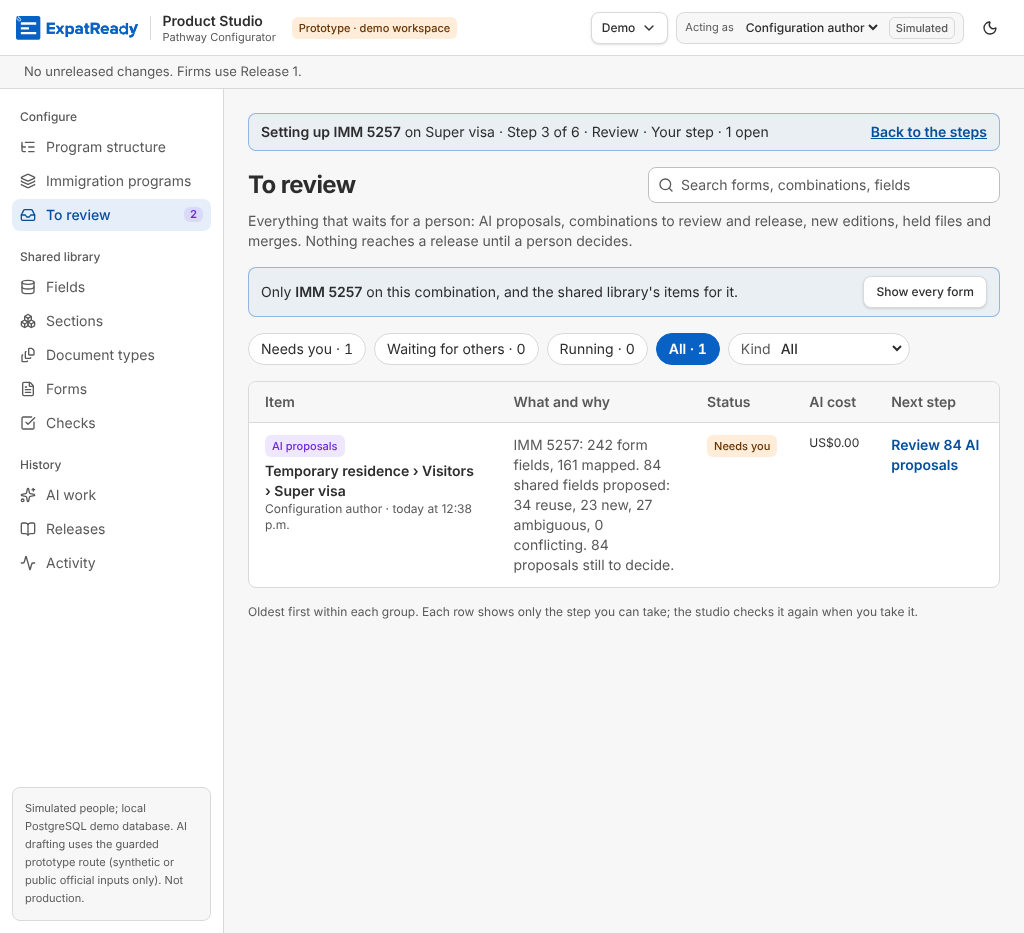
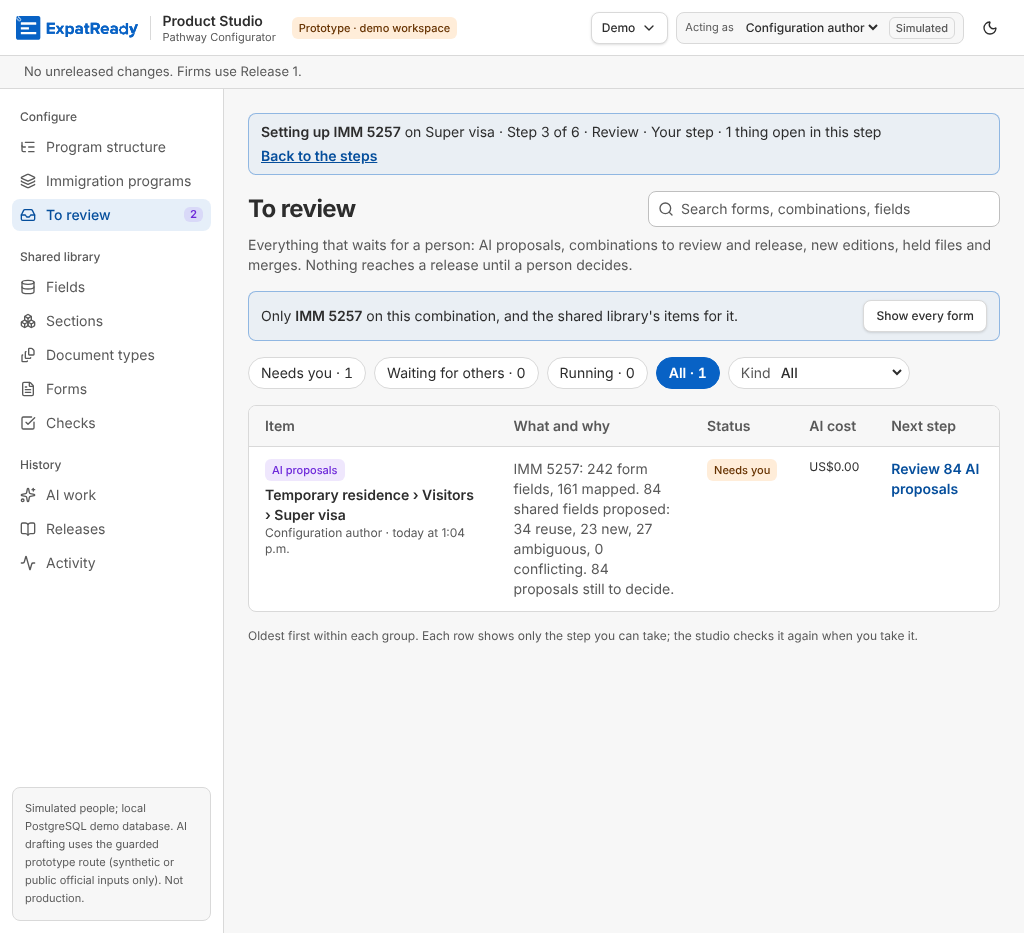
forms F2 C2.12: review 95014fdf Minors m1, m3–m7 with fail tests; P-221: the record moves to qa/built/C2.12.md (CAPABILITIES.md untouched)
m1 a row's step link keeps ?form=&c=; m3 a refused combination is named as such; m4 the strip says what it counts;
m5 focus to the heading after Show every form; m6 the combination never reaches an API path as written (encoded, shape
checked, label guarded); m7 the number shown as the library writes it. m2 (job.tsx, not this lane's file) listed in the PR.

Claude-Session: https://claude.ai/code/session_01Ln6TiU8EwrKpPayKMQCinc

Changed region(s): [[0.25, 0.1554, 0.9688, 0.6838], [0.8438, 0.3108, 0.9688, 0.373], [0.7188, 0.1243, 0.9688, 0.1554]]

diff --git a/ai-workers/problem-1-pathway-setup-and-form-filling/prototype/studio/web/src/pages/to-review.tsx b/ai-workers/problem-1-pathway-setup-and-form-filling/prototype/studio/web/src/pages/to-review.tsx
@@ -12,6 +12,8 @@ import { EmptyState } from "@/components/ui/empty-state";
 import { Skeleton } from "@/components/ui/skeleton";
 import { fmtWhen, Tip, TipProvider } from "@/components/status";
 import { cn } from "@/lib/utils";
+import { normaliseCode } from "../../../contracts/form-library";
+import { withReturn } from "@/pages/workspace/setup-rail";
 
 const VIEWS = [["needs", "Needs you"], ["waiting", "Waiting for others"], ["running", "Running"], ["all", "All"]] as const;
 const KIND_TONE: Record<QueueKind, string> = { proposals: "ai", ai_proposals: "ai", release: "info", library_change: "info", form_fields: "warn", new_edition: "warn", held_file: "warn", merge: "neutral", running: "ai" };
@@ -26,7 +28,12 @@ export function ToReviewPage() {
   const q = sp.get("q") ?? "";
   // C2.12 (concept m2, K1): opened from a form's guided path, the list is that form's items (?form=), on that combination
   // (?c=) as the path counts them; "Show every form" clears both. The API checks the number (400 in words).
-  const form = sp.get("form")?.trim() || null;
+  // Review m7: the number as the library writes it ("imm5257" → "IMM 5257"), as the strip and the API say it.
+  const asked = sp.get("form")?.trim() || null;
+  const form = asked ? (asked.length <= 40 ? normaliseCode(asked) : asked) : null;
+  const heading = React.useRef<HTMLHeadingElement>(null);
+  // Review m5 (WCAG 2.4.3): after "Show every form" the button is gone; focus goes to the page's heading, not the body.
+  const showEvery = () => { set({ form: null, c: null }); requestAnimationFrame(() => heading.current?.focus()); };
   const combo = form ? sp.get("c")?.trim() || null : null;
   const [typed, setTyped] = React.useState(q);
   React.useEffect(() => setTyped(q), [q]);
@@ -43,7 +50,7 @@ export function ToReviewPage() {
     <TipProvider>
       <div className="mx-auto flex max-w-[1240px] flex-col gap-4">
         <div className="flex flex-wrap items-center gap-3">
-          <h1 className="text-2xl font-bold tracking-tight">To review</h1>
+          <h1 ref={heading} tabIndex={-1} className="text-2xl font-bold tracking-tight outline-none">To review</h1>
           <span className="flex-1" />
           <div className="relative w-full sm:w-[22rem]">
             <Search className="pointer-events-none absolute left-2.5 top-2.5 size-4 text-text-muted" aria-hidden />
@@ -56,7 +63,7 @@ export function ToReviewPage() {
         {form ? <div className="flex flex-wrap items-center gap-2 rounded-lg border border-primary/40 bg-primary/5 px-3 py-2 text-sm" data-form-filter={form}>
           <span>Only <b className="font-semibold">{form.length > 40 ? `${form.slice(0, 40)}…` : form}</b>{combo ? " on this combination, and the shared library's items for it" : ", on every combination"}.</span>
           <span className="flex-1" />
-          <Button size="sm" variant="secondary" onClick={() => set({ form: null, c: null })}>Show every form</Button>
+          <Button size="sm" variant="secondary" onClick={showEvery}>Show every form</Button>
         </div> : null}
 
         <div className="flex flex-wrap items-center gap-2">
@@ -82,15 +89,16 @@ export function ToReviewPage() {
 
         {list.isError ? (form && list.error instanceof ApiError && list.error.status === 400
             // C2.12: a form number the studio refuses (too long, empty) is said in its words, with the way out, not "Try again".
-            ? <Notice tone="danger" title="This form number is not one the studio reads" action={<Button size="sm" variant="secondary" onClick={() => set({ form: null, c: null })}>Show every form</Button>}>{list.error.message}</Notice>
+            // Review m3: the title names what was refused (the combination reference or the form number).
+            ? <Notice tone="danger" title={list.error.field("combination") ? "This combination reference is not one the studio reads" : "This form number is not one the studio reads"} action={<Button size="sm" variant="secondary" onClick={showEvery}>Show every form</Button>}>{list.error.message}</Notice>
             : <Notice tone="danger" title="The list could not be loaded" action={<Button size="sm" variant="secondary" onClick={() => void list.refetch()}>Try again</Button>}>{(list.error as Error).message} Your decisions so far are saved.</Notice>)
           : list.isLoading || !known ? <div className="space-y-2 rounded-lg border border-border bg-surface-raised p-4" aria-busy="true" aria-label="Loading items to review">{Array.from({ length: 6 }, (_, i) => <Skeleton key={i} className="h-12 w-full" />)}<span className="sr-only" role="status">Loading items to review</span></div>
           : !d!.items.length ? (
-            form && !q && !kind ? <EmptyState title={`Nothing for ${form.length > 40 ? `${form.slice(0, 40)}…` : form} in ${VIEWS.find(([k]) => k === filter)![1]}`} description={`${filter !== "all" && d!.counts.all ? `${d!.counts.all} other item${d!.counts.all === 1 ? "" : "s"} of this form ${d!.counts.all === 1 ? "is" : "are"} under All. ` : ""}Items of other forms are not shown.`} action={<Button variant="secondary" onClick={() => set({ form: null, c: null })}>Show every form</Button>} />
+            form && !q && !kind ? <EmptyState title={`Nothing for ${form.length > 40 ? `${form.slice(0, 40)}…` : form} in ${VIEWS.find(([k]) => k === filter)![1]}`} description={`${filter !== "all" && d!.counts.all ? `${d!.counts.all} other item${d!.counts.all === 1 ? "" : "s"} of this form ${d!.counts.all === 1 ? "is" : "are"} under All. ` : ""}Items of other forms are not shown.`} action={<Button variant="secondary" onClick={showEvery}>Show every form</Button>} />
             : q || kind ? <EmptyState title="Nothing matches" description={`No item ${q ? `matches "${q}"` : ""}${q && kind ? " and " : ""}${kind ? `is a ${KIND_WORDS[kind].toLowerCase()}` : ""} in ${VIEWS.find(([k]) => k === filter)![1]}.`} action={<Button variant="secondary" onClick={() => { setTyped(""); set({ q: null, kind: null, f: "all" }); }}>Show all</Button>} />
               : filter === "needs" ? <EmptyState title="Nothing waits for you" description={`When you add sources to a combination, its AI draft, new editions and approvals appear here.${d!.counts.waiting ? ` ${d!.counts.waiting} item${d!.counts.waiting === 1 ? " waits" : "s wait"} for someone else.` : ""}`} action={<Button asChild variant="secondary"><Link to="/">Open Immigration programs</Link></Button>} />
               : <EmptyState title={filter === "running" ? "No AI work is running" : filter === "waiting" ? "Nothing waits for someone else" : "Nothing to review"} description="Items appear here as sources are added, drafted and submitted." />
-          ) : <Rows items={d!.items} />}
+          ) : <Rows items={d!.items} way={form && combo ? { form, combo } : null} />}
         {d?.items.length ? <p className="text-xs text-text-muted">Oldest first within each group. Each row shows only the step you can take; the studio checks it again when you take it.</p> : null}
         {d ? <p className="sr-only" role="status">{d.items.length} item{d.items.length === 1 ? "" : "s"} shown</p> : null}
       </div>
@@ -98,7 +106,7 @@ export function ToReviewPage() {
   );
 }
 
-function Rows({ items }: { items: QueueItem[] }) {
+function Rows({ items, way }: { items: QueueItem[]; way: { form: string; combo: string } | null }) {
   return (
     // QA-113: at 1024 px the box is about 735 px wide; a 760 px floor scrolled sideways and cut "Item". The columns wrap
     // down to 640 px, and only a narrower window scrolls.
@@ -118,7 +126,7 @@ function Rows({ items }: { items: QueueItem[] }) {
                 <td className="px-4 py-3"><Pill tone={tone}>{word}</Pill>{i.waiting_on ? <p className="mt-1 max-w-[220px] text-xs text-text-muted">{i.waiting_on}</p> : null}</td>
                 <td className="whitespace-nowrap px-4 py-3 text-xs">{i.cost_usd === null ? "—" : `US$${i.cost_usd.toFixed(2)}`}</td>
                 <td className="px-4 py-3" data-next>{!i.next ? <span className="text-xs text-text-muted">No step for you</span>
-                  : i.next.href ? <><Link className="rounded font-semibold text-text-link outline-none hover:underline focus-visible:ring-[3px] focus-visible:ring-ring/50" to={i.next.href}>{i.next.label}</Link>{i.next.note ? <p className="mt-1 max-w-[220px] text-xs text-text-muted">{i.next.note}</p> : null}</>
+                  : i.next.href ? <><Link className="rounded font-semibold text-text-link outline-none hover:underline focus-visible:ring-[3px] focus-visible:ring-ring/50" to={way ? withReturn(i.next.href, way.form, way.combo) : i.next.href}>{i.next.label}</Link>{i.next.note ? <p className="mt-1 max-w-[220px] text-xs text-text-muted">{i.next.note}</p> : null}</>
                   : <Tip tip={i.next.note ?? ""}><span tabIndex={0} className="cursor-help font-semibold text-text-muted outline-none focus-visible:ring-[3px] focus-visible:ring-ring/50">{i.next.label} <span className="text-xs font-normal">(not built yet)</span></span></Tip>}</td>
               </tr>
             );

diff --git a/ai-workers/problem-1-pathway-setup-and-form-filling/prototype/studio/web/src/components/return-strip.tsx b/ai-workers/problem-1-pathway-setup-and-form-filling/prototype/studio/web/src/components/return-strip.tsx
@@ -13,16 +13,18 @@ export function ReturnStrip() {
   const loc = useLocation();
   const form = sp.get("form")?.trim() || null, c = sp.get("c")?.trim() || null;
   // The rail itself is open (?setup=): the strip would repeat it.
-  const on = !!form && !!c && !sp.get("setup") && form.length <= 40 && c.length <= 64;
+  // Review m6: only a combination reference of the studio's shape (letters, digits, dashes) is read; the address never
+  // reaches the API path as written.
+  const on = !!form && !!c && !sp.get("setup") && form.length <= 40 && /^[A-Za-z0-9-]{1,64}$/.test(c);
   const p = useApi<FormProgress>(progressKey(c ?? "", form ?? ""), progressPath(c ?? "", form ?? ""), { enabled: on, retry: (n, e) => !(e instanceof ApiError && e.status < 500) && n < 1 });
-  const combo = useApi<CombinationView>(["combination", c ?? ""], `/combinations/${c}`, { enabled: on });
+  const combo = useApi<CombinationView>(["combination", c ?? ""], `/combinations/${encodeURIComponent(c ?? "")}`, { enabled: on });
   // A stale or foreign address (a form or combination the studio does not know): no strip; the page itself still works.
   if (!on || !p.data) return null;
   const chip = chipOf(p.data);
-  const name = combo.data?.combination.label ?? "this combination";
+  const name = combo.data?.combination?.label ?? "this combination";
   return (
     <div className="mb-4 flex flex-wrap items-center gap-x-3 gap-y-1 rounded-lg border border-primary/40 bg-primary/5 px-3 py-2 text-sm" role="region" aria-label={`Setting up ${p.data.form}`} data-return-strip={p.data.form} data-path={loc.pathname}>
-      <span><b className="font-semibold">Setting up {p.data.form}</b> on {name} · {chipWords(chip)}{chip.current && chip.count ? ` · ${chip.count} open` : ""}</span>
+      <span><b className="font-semibold">Setting up {p.data.form}</b> on {name} · {chipWords(chip)}{chip.current && chip.count ? ` · ${chip.count} ${chip.count === 1 ? "thing" : "things"} open in this step` : ""}</span>
       <span className="flex-1" />
       <Link className="rounded font-semibold text-text-link underline outline-none focus-visible:ring-[3px] focus-visible:ring-ring/50" to={backToSteps(p.data.form, c!)} data-back-to-steps>Back to the steps</Link>
     </div>

diff --git a/ai-workers/problem-1-pathway-setup-and-form-filling/prototype/studio/web/src/pages/workspace/setup-rail.tsx b/ai-workers/problem-1-pathway-setup-and-form-filling/prototype/studio/web/src/pages/workspace/setup-rail.tsx
@@ -13,7 +13,7 @@ import type { FormProgress, FormStepChip, ProgressState } from "../../../../cont
 
 export const STATE_WORDS: Record<ProgressState, string> = { done: "Done", needs_you: "Your step", waiting_others: "Waiting on someone else", running: "Running", not_started: "Not started" };
 const STATE_TONE: Record<ProgressState, "ok" | "warn" | "ai" | "neutral"> = { done: "ok", needs_you: "warn", waiting_others: "neutral", running: "ai", not_started: "neutral" };
-export const progressPath = (id: string, code: string) => `/combinations/${id}/forms/${encodeURIComponent(code)}/progress`;
+export const progressPath = (id: string, code: string) => `/combinations/${encodeURIComponent(id)}/forms/${encodeURIComponent(code)}/progress`;
 /** Under the ["combination", id] key (review Major 3): every row action that refreshes the combination refreshes the rail. */
 export const progressKey = (id: string, code: string) => ["combination", id, "form-progress", code];
 /** The chip's words: the step's number and short name and where it stands (board: "Step 3 of 6 · Review"). */
@@ -27,7 +27,7 @@ export function withReturn(href: string, form: string, combination: string): str
   return `${path}?${sp.toString()}${hash ? `#${hash}` : ""}`;
 }
 /** Where "Back to the steps" lands: the combination's Forms tab with this form's rail open, focus on its current step. */
-export const backToSteps = (form: string, combination: string) => `/c/${combination}/forms?setup=${encodeURIComponent(form)}&back=1`;
+export const backToSteps = (form: string, combination: string) => `/c/${encodeURIComponent(combination)}/forms?setup=${encodeURIComponent(form)}&back=1`;
 
 const CHIP_TIP = "Worked out from what has been done. You never tick a step. Open it to see each step and what is left.";
 

diff --git a/ai-workers/problem-1-pathway-setup-and-form-filling/product/screens/F3-add-form-wizard/review-c212-s4.md b/ai-workers/problem-1-pathway-setup-and-form-filling/product/screens/F3-add-form-wizard/review-c212-s4.md
@@ -1,0 +1,73 @@
+# F2 C2.12 slice 4: To review reads ?form= and ?c=, the return strip, Back to the steps · independent reviewer · 1 Nov 2026
+
+Commit reviewed: **`95014fdf`** on `claude/optimistic-heisenberg-ra6v2n` (`git diff origin/main...95014fdf`: review-queue API and contract, `to-review.tsx`, new `return-strip.tsx`, `App.tsx`, `setup-rail.tsx`, `forms.tsx`, one new suite, one updated suite). I did not build it. While I reviewed, the builder added `cc96c35a` (one line in `qa/CAPABILITIES.md`). It is not part of this review.
+- Copy: forms_rev on :4456, `xr_studio_forms_rev`. I rebuilt the web bundle from the commit (`index-VAa67AIN.js`). The copy is now stopped, its database dropped and its working files removed. I never used :4400, set no *_LIVE variable and made no AI calls (US$0, replay only).
+- Scope: concept §4 "Return strip", challenge m1/m2, K1. The online slices (D7, asked-differently, X4) are parked by P-102 and are not reviewed here.
+
+## Verdict: **Approve** (0 Blocker, 0 Major). Ship, with the Minors below as follow-ups
+The gap qa named ("To review's screen still ignores ?form=") is closed. To review lists what the path counts for this form on this combination. The strip shows on every page a rail link opens, and Back to the steps lands focus on the current step. All of this holds in the running app, by keyboard, under axe, and at 390/1024/1440 px.
+
+## Reruns
+- `check_forms_c212_to_review_browser.cjs 4456`: **25/25**, no page errors.
+- `check_forms_c212_rail_browser.cjs 4456` (fresh copy): **31/31**, no page errors.
+- `graph.mjs`: G1/G2/G4–G6 at 0. G3 lists 2 routes this change does not touch (`POST /combinations/:id/attachments`, `GET /attachments/:id/file`).
+- Each rule is guarded by a test that fails without it:
+  - Without the combination filter (`review-queue.ts:35`), "K1 fail" fails (the Visitor visa's job would appear).
+  - Without `withReturn`, the rail suite's "BR-1 … with the way back" check and "every link carries ?form=&c=" fail.
+  - Without the `.refine`, "a combination without a form is refused" fails.
+- My tree note: both suites rewrite tracked screenshots. I restored `screenshots/c212/*` to their state before my runs. The tree also has many other screenshots and `evidence/screen01/*.json` modified. Those come from the builder's runs, so I did not touch them.
+
+## Concept fit (§4 Return strip, m1, m2, K1)
+| Item | Result | Evidence |
+|---|---|---|
+| m2: To review filtered by form | Met | `/review?f=all&form=IMM 5257&c=<Super visa>` shows the same rows as the API. The held file (no form) and the Visitor visa's job are not listed. Counts on the view buttons are this form's. The filter line reads "Only IMM 5257 on this combination, and the shared library's items for it." |
+| K1: keyed by form and combination | Met | `review-queue.ts:35` applies the same rule as `engine/form-progress.ts:54` (this combination's items plus library-wide ones). `?combination=` without `form` gives a 400 in words. An unknown combination gives 200 with library-wide items only, all from the actor's workspace, so nothing leaks. |
+| Strip in the shell, reads ?form=&c= | Met | One component in `App.tsx`. Hidden for case people and while `?setup=` is open. The 6-step count follows P-102 (step 7 parked). The words differ from the concept's ("Setting up … on …" rather than "Adding … to …"), which I accept. |
+| Back returns focus to that step (m1) | Met | Keyboard walk: Forms row chip, Enter, 4 Tabs to the step link, Enter, job page with strip, Back to the steps, Enter. Focus lands on `[data-step="review"]`. Browser Back and Forward work. Escape drops `back=1` and returns focus to the chip. |
+| Every rail link keeps the way back | Met | Every rail href carries `form=IMM 5257&c=<id>`. The `/review/proposals?group=…` links are unaffected: with a `group` present, `proposals.tsx:31` ignores `c`. |
+| Empty and error states | Met with m3 | "Nothing for IMM 5257 in Waiting for others · 1 other item of this form is under All." A form number over 40 characters is refused with "Show every form" and no "Try again". |
+
+## Your probes, answered
+- **Appending `c=` to `/review/proposals`.** With `group=`, it changes nothing. Without `group=`, `c` is read as the PR #108 combination selector, so the server picks that combination's group. The page then rewrites the address to `{group}` only (`proposals.tsx:35`), which drops `form` and `c`, so the strip goes. Choosing another group (`:70`) also drops them. The rail never links to the page without `group`, so this is only m4.
+- **Item pages that move on by themselves.** The job page's Apply / Preview the draft goes to `/c/:id/preview` (`job.tsx:90,99`) and drops the way back. So does every row link on To review opened from "Everything for IMM 5257" (`to-review.tsx:121` uses `i.next.href` as it is). See m1 and m2.
+- **Keyboard and focus.** Fine, apart from m5.
+- **axe.** Clean on the job page with the strip, To review with the strip, and the rail after Back (WCAG 2.2 AA, 1440/1024/390).
+- **390 px.** To review with the filter line and the strip: no sideways scroll. The job page scrolls sideways at 390 px (scrollWidth 732) **with and without** `?form=&c=`. That comes from its own buttons, is already on main and is outside this change.
+- **Speed.** `GET /review-queue?form=&combination=` takes 15–41 ms.
+
+## Issues (none Must for this PR; all Should)
+- **m1 (Should): To review rows drop the way back.** Repro: rail → "Everything for IMM 5257 on To review" → "Review 84 AI proposals". The job page has no strip. `to-review.tsx:121` links `i.next.href` without `form`/`c`. Fix: when `form` and `c` are both in the address, pass the href through `withReturn` (the "Everything…" link promises the way back). Recovery today is one browser Back.
+- **m2 (Should): finishing the step loses the strip.** Repro: open the job page from the rail and press Apply to draft (or Preview the draft). It navigates to `/c/:id/preview` with no `form`/`c` (`job.tsx:90,99`). This is the moment the person most needs "Back to the steps". Fix: carry `location.search`'s `form`/`c` into that `nav()`.
+- **m3 (Should): the 400 notice names the wrong field.** Repro: `/review?form=IMM 5257&c=<65 characters>`. The title is "This form number is not one the studio reads", but the body says "A combination reference has at most 64 characters." (`to-review.tsx` 400 branch). Fix: choose the title from `errors[0].field`, or say "This address is not one the studio reads".
+- **m4 (Should): the strip's count does not say what it counts** (EXPERIENCE §2 item 7 [M], "counts say what they count"). The strip reads "Step 3 of 6 · Review · Your step · **1 open**" while the rail says "Review 84 AI proposals". The count is open queue items (`chipOf` → `s.count`). Fix: "1 item open", or the step's own words. Also m4b: `/review/proposals` without `group` drops `form`/`c` (above).
+- **m5 (Should, WCAG 2.4.3): focus is lost after "Show every form".** Pressing Enter on it removes the line that holds the button, and focus falls to `<body>`. Fix: move focus to the page heading or the first view button.
+- **m6 (Should): a crafted `c` blanks the app.** Repro: `/library/forms?form=IMM%205257&c=..%2F..%2Freview-queue%3Fx%3D1%23`. The page renders nothing (body text length 0) and throws "Cannot read properties of undefined (reading 'label')". `return-strip.tsx:16-17` and `setup-rail.tsx` `progressPath` put `c` into the API path unencoded, so `../..` resolves to `/api/review-queue`, which answers 200. Then `combo.data?.combination.label` throws. It is read-only, the person's own session and only a hand-made address, but it is a white screen. Fix: `encodeURIComponent(c)` in both paths (and in `backToSteps`), and `combination?.label`.
+- **m7 (Should, cosmetic):** `?form=imm5257` filters correctly (the API normalises it), but the filter line echoes "Only imm5257", while the strip says "IMM 5257". Fix: show the normalised code.
+
+## D1–D20 (this slice's surface; one line each)
+- D1 job fit 5: the path to To review and back is one click each way.
+- D2 concept fit 4: m1/m2 lose the strip one hop out.
+- D3 one source 5: `review-queue.ts:35` uses the same rule as `form-progress.ts:54`, and a test checks the review step's count against To review.
+- D4 words 4: m3, m4, m7.
+- D5 states 5: filtered, every combination, empty-for-form, 400, unknown combination.
+- D6 feedback 5.
+- D7 errors 4: m3, m6.
+- D8 keyboard 4: m5.
+- D9 a11y (axe) 5.
+- D10 sizes 5: To review at 390/1024 and at 200 % (720 px), no sideways scroll.
+- D11 speed 5.
+- D12 look 5: the team's tokens and Notice/EmptyState.
+- D13 data correctness 5: K1 matches the path.
+- D14 authorisation 5: actor-scoped queue, no new writes.
+- D15 no per-row requests 5: one queue call, and the strip makes two GETs.
+- D16 tests 5: pass and fail per rule; the guarding tests fail without their rules.
+- D17 simulated only.
+- D18 reuse 5: `withReturn`/`backToSteps` shared by the rail and the strip.
+- D19 scope 5: nothing beyond m1/m2/K1.
+- D20 simulated only.
+
+**Journey score: 8.5/10 (pass, no 0)**: `journey-test-reviewer-2026-11-01-c212-95014fdf.md`.
+
+**I could not check:** a real screen reader, an intended user walking it unaided (D17/D20 stay with the founder), or 200 % zoom on the browser itself (I emulated it with a 720 px viewport).
+
+**Verdict: Approve**

diff --git a/ai-workers/problem-1-pathway-setup-and-form-filling/product/screens/F3-add-form-wizard/journey-test-reviewer-2026-11-01-c212-95014fdf.md b/ai-workers/problem-1-pathway-setup-and-form-filling/product/screens/F3-add-form-wizard/journey-test-reviewer-2026-11-01-c212-95014fdf.md
@@ -1,0 +1,74 @@
+# Journey test · reviewer · F2 C2.12 slice 4 (To review by form, the return strip) · 1 Nov 2026 · commit 95014fdf
+
+Copy: forms_rev on :4456 (`xr_studio_forms_rev`, now dropped). Web bundle rebuilt from the commit. US$0, replay only. The browser was Playwright Chrome, headless, driven like a person (clicks, Tab, Enter, Escape, browser Back and Forward). Review: `review-c212-s4.md`.
+
+## Journeys
+1. **Main path, keyboard only (content publisher, user-A).** "I'm halfway through IMM 5257 on the Super visa; take me to my step and back."
+   - Steps: Forms tab → chip (Enter) → 4 Tabs to the step link → Enter → job page → Tab to "Back to the steps" (16 Tabs from the top) → Enter.
+   - Held: the strip reads "Setting up IMM 5257 on Super visa · Step 3 of 6 · Review · Your step · 1 open". Back reopens the rail with focus on step 3. Browser Back and Forward both work.
+2. **Alternate (content publisher).** "Show me everything for this form."
+   - Steps: rail → "Everything for IMM 5257 on To review".
+   - Held: only this form's items on this combination plus library-wide ones. Counts match. "Show every form" brings the held file and the Visitor visa's job back.
+   - Wrong turn: clicking the row's "Review 84 AI proposals" opens the job page **without** the strip (m1).
+3. **Finish the step (content publisher).** On the job page, Apply / Preview the draft goes to `/c/:id/preview` and the strip is gone (m2). Recovery: go to the Forms tab and use the chip.
+4. **Empty.** In the Waiting view: "Nothing for IMM 5257 in Waiting for others. 1 other item of this form is under All." The empty state for IMM 1295 offers "Show every form" and never the whole queue's empty state.
+5. **Error.** A form number of 41 characters is refused in words, with "Show every form" and no "Try again". A combination reference of 65 characters is refused under the title "This form number is not one the studio reads" (wrong field, m3).
+6. **Wrong role / other roles.**
+   - Approver (user-B) and Content reviewer (user-C) see the strip with their own state.
+   - A case person gets no strip, by design (`App.tsx`).
+   - `?combination=` without `form` gives 400 at the API.
+7. **Stale address.**
+   - An unknown combination: no strip, and the list still loads.
+   - Without `?c=`: "on every combination" and no strip.
+   - A crafted `c=../../review-queue…`: **the whole page goes blank** with a page error (m6).
+8. **Recovery.**
+   - A reload with `back=1` refocuses the step. Escape drops `back=1` and returns focus to the chip.
+   - "Show every form" by keyboard drops focus to `<body>` (m5).
+9. **Screen boundary.**
+   - `/review/proposals?group=…&form=&c=` keeps the strip.
+   - Without `group`, the page rewrites the address and the strip goes (m4b). The rail never links there.
+
+## Automated replay
+- Builder suites rerun on my copy: `check_forms_c212_to_review_browser.cjs` 25/25 and `check_forms_c212_rail_browser.cjs` 31/31. Both cover axe at 1440/1024/390, 390 px with no sideways scroll, the keyboard Back path, and no page errors.
+- My own probe (kept outside the repo, under `/tmp/rev`) covered:
+  - the keyboard walk (journey 1)
+  - axe on the job page with the strip: clean
+  - 390 / 1024 / 720 px (200 %): To review has no sideways scroll. The job page is 732 px wide at 390 with or without the strip, which is already on main.
+  - the roles, the stale and crafted addresses, and Back / Forward
+- Timing: `GET /review-queue?form=&combination=` takes 15–41 ms. The strip makes two GETs. No waits over 1 s.
+
+## Data underneath
+- Read-only slice: every request the strip and the filtered page make is a GET, and the probe saw no writes.
+- The API list equals the rows on screen. The review step's count on the path equals the review-kind items To review lists (suite D3).
+
+## Break it (15 min)
+- Long, hostile and lowercase input:
+  - a form of 41 characters: refused in words
+  - a combination of 65 characters: refused, but the notice names the wrong field (m3)
+  - `imm5257`: filtered correctly, but the filter line shows "imm5257" (m7)
+  - path-like `c`: blank app (m6, Minor because it needs a hand-made address and touches no data)
+- Two tabs: nothing to race, since the slice writes nothing.
+
+## Score
+| Criterion | Score | Evidence |
+|---|---|---|
+| Task completed | 1 | Journeys 1–2: to the step and back, by keyboard |
+| Next step obvious | 1 | The strip names the step; Back lands focus on it |
+| Plain words | ½ | "1 open" does not say what it counts (m4); the 400 title names the wrong field (m3) |
+| Feedback and state | 1 | Filter line, form-specific empty state, strip state per role |
+| Correct data | 1 | API = screen; path count = To review count (K1) |
+| Error recovery | ½ | Strip lost after Apply and on To review rows (m1, m2); crafted `c` blanks the app (m6) |
+| Accessibility and screen sizes | ½ | axe clean, keyboard path works, 390 px fine; focus lost after "Show every form" (m5) |
+| Speed | 1 | 15–41 ms API; no waits over 1 s |
+| Visual quality | 1 | The team's tokens; strip and filter line match the rail's look (screenshots `c212/10-*`) |
+| Trust and sources | 1 | Read-only, no AI; says which form and combination it narrows to |
+
+**8.5/10, pass (8 or more, no 0).**
+
+Fixes that would raise the score, most valuable first:
+- m1 and m2 (carry `form`/`c` through To review rows and the job page's `nav()`)
+- m6 (encode `c` and guard `combination?.label`)
+- m4 and m3 (wording)
+- m5 (focus after "Show every form")
+
+**Could not test:** a real screen reader, an intended user's unaided walk (D17/D20 stay with the founder), or real browser zoom (I emulated 200 % with a 720 px viewport).

diff --git a/ai-workers/problem-1-pathway-setup-and-form-filling/product/qa/CAPABILITIES.md b/ai-workers/problem-1-pathway-setup-and-form-filling/product/qa/CAPABILITIES.md
@@ -23,7 +23,7 @@ Rows: the Lead (every product decision becomes a row or a backlog item the same 
 | C2.9 | 2 Sources | Content team captures portal screens with the extension's capture mode, guided screen by screen, structure only; proven on the APR Portal, the real blank screens captured by the founder (P-102) | Parked | Not built | — | Forms lane F2 Parked, not scheduled: portal capture does not return; the extension comes back for online fill only (P-102). |
 | C2.10 | 2 Sources | For each form the author sees which source drafting reads — the PDF version first by default, the online screens for what differs — can change it per form, and every shared field shows which source it came from (P-62 §1) | Parked | Partial | db468e38 24 Oct | Per form choice stored, approver read-only, axe clean. Per-field source is Screen 02 (not built) Parked with the extension (P-102; W1-02 removed it). |
 | C2.11 | 2 Sources | An online version carries a re-check date; when it passes, the author sees "re-check due" and re-captures or confirms it; a changed portal screen is handled like a new edition (P-61) | Parked | Not built | — | Validator rule on main (F1); Screens 02 and 04 Parked with the extension (P-102; W1-02 removed it). |
-| C2.12 | 2 Sources | Author adds a PDF form through one guided path with progress, resume and "what's left": the library intake → AI maps form fields → review → new shared fields, sections and document types → second person → field map complete; each step opens the screen already built (P-103, P-110) | M2 | Built, awaiting qa | 6b424941 1 Nov | Builder (forms, this PR): To review reads ?form= and ?c= (this combination as the path counts it), "Show every form", the return strip with Back to the steps on every page the rail opens; `check_forms_c212_to_review_browser.cjs` 25/25; online slices parked (P-102). After-merge 6b424941 (#241 slice 3): the Forms tab shows a step chip per form and opens the form's guided path (six steps, your next step, what's left), `?setup=` resumes after reload, Escape returns focus to the chip, a form not in the library is said in words, case officer and client get no path (403 in words), no sideways scroll at 400/1024/1440, axe clean. Every chip agrees with GET …/progress (6 forms). `check_forms_c212_rail_browser.cjs` 31/31; `tests/qa/check_qa_am_1101d_c212_walk.cjs` 27/28 twice (QA-130). Not built yet (later slices 5–8): To review's screen ignores `?form=` (the API has it). Before: slices 1–2 API only (832ee5bd) |
+| C2.12 | 2 Sources | Author adds a PDF form through one guided path with progress, resume and "what's left": the library intake → AI maps form fields → review → new shared fields, sections and document types → second person → field map complete; each step opens the screen already built (P-103, P-110) | M2 | Partial | 6b424941 1 Nov | After-merge 6b424941 (#241 slice 3): the Forms tab shows a step chip per form and opens the form's guided path (six steps, your next step, what's left), `?setup=` resumes after reload, Escape returns focus to the chip, a form not in the library is said in words, case officer and client get no path (403 in words), no sideways scroll at 400/1024/1440, axe clean. Every chip agrees with GET …/progress (6 forms). `check_forms_c212_rail_browser.cjs` 31/31; `tests/qa/check_qa_am_1101d_c212_walk.cjs` 27/28 twice (QA-130). Not built yet (later slices 5–8): To review's screen ignores `?form=` (the API has it). Before: slices 1–2 API only (832ee5bd) |
 | C3.1 | 3 Library | AI maps form fields to shared fields: reuse / new / ambiguous / conflict, beside the source; each field's type and format from its source, enforced in code (P-162) | M2 | Partial | 12e7207 24 Oct | Slice 2 and 2b API probe 56/56 (US$0): roles, one job per double launch, cancel, stale plan, reuse refuses changed codes and types, plain refusals (QA-27, 30, 33 closed). No person walk of the drafting screens yet |
 | C3.2 | 3 Library | Reviewer accepts, edits or rejects each proposal; bulk accept only for clean reuse; Undo | M2 | Not tested | — | |
 | C3.3 | 3 Library | AI failure gives a plain message and keeps the good entries; a paid repeat of a failed run is refused | M2 | Partial | 12e7207 24 Oct | Retry after a mid-run cancel runs (QA-32 closed); orchestration 22/22; launch paths 55/55 (fake launcher). No person walk yet |

diff --git a/ai-workers/problem-1-pathway-setup-and-form-filling/product/qa/built/C2.12.md b/ai-workers/problem-1-pathway-setup-and-form-filling/product/qa/built/C2.12.md
@@ -1,0 +1,1 @@
+C2.12 · PR #285 · From a form's guided path, an author opens To review filtered to that form on that combination (?form=&c=, Show every form), sees a return strip on every page the path opens, and goes Back to the steps with focus on the current step.
